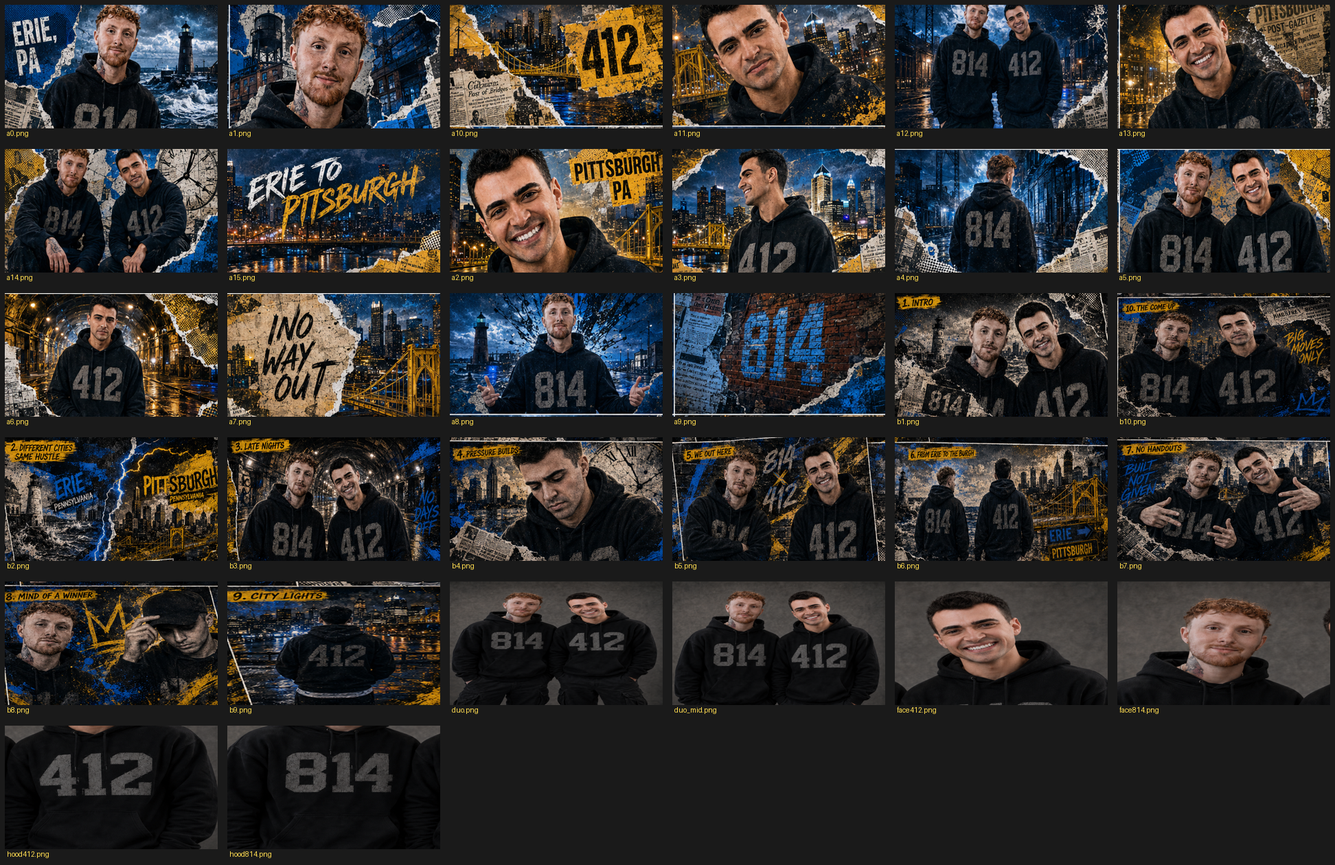
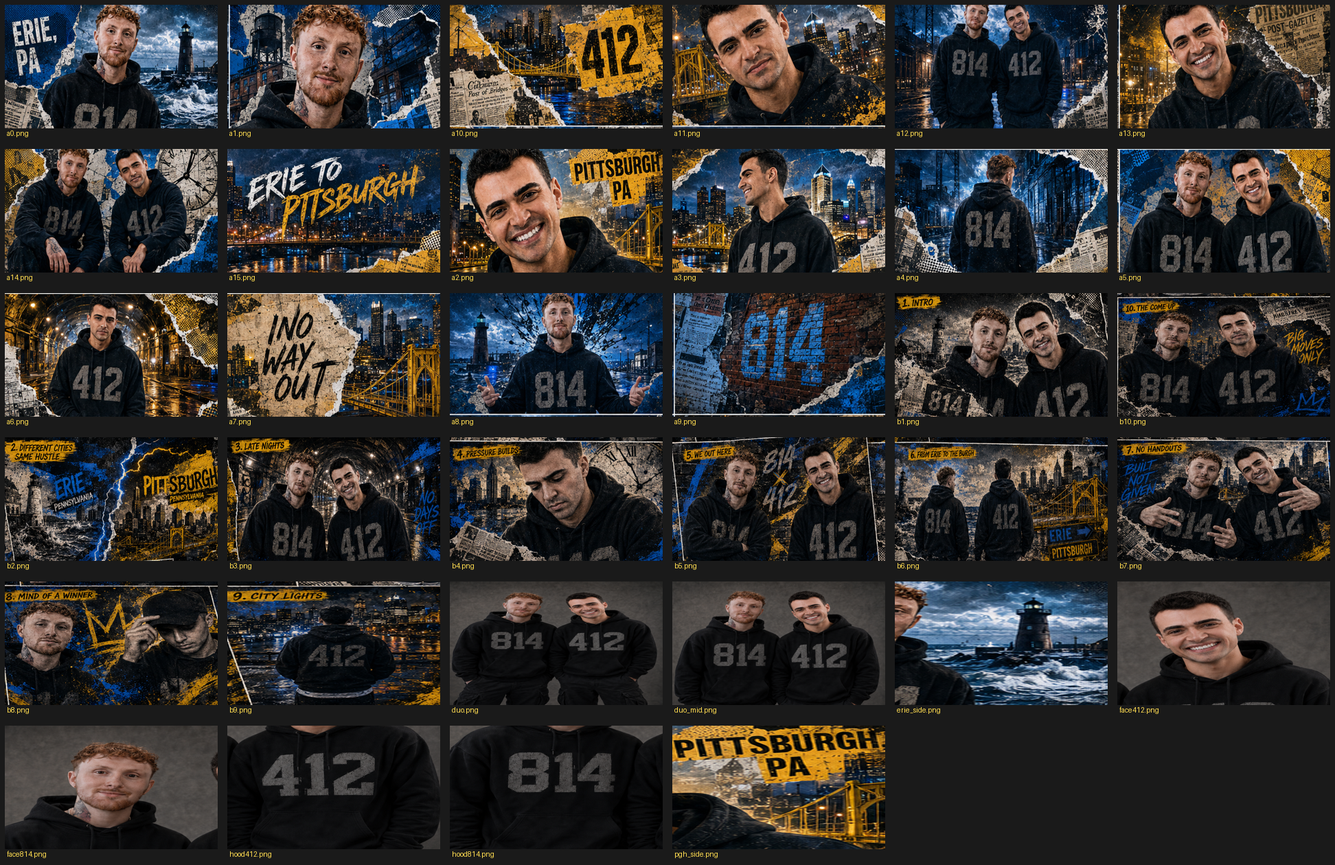
Keep faces off fragments and collide seam
Fragment crops re-centred on pure scenery (the bridge frag was clipping
a mouth, lighthouse/clock/skyline carried face slivers), collide scene
now splits the face-free 814 brick and 412 sign panels, and face-free
city side-plate crops are available from the slice stage.

Claude-Session: https://claude.ai/code/session_0178RnsEauKU8bD3FKeEBkzo

diff --git a/03_Content/814-Blood-2min/render.py b/03_Content/814-Blood-2min/render.py
@@ -104,6 +104,13 @@ def do_slice():
     for k, (x0, y0, x1, y1) in B_BOXES.items():
         im.crop((int(x0 * w) + 5, int(y0 * h) + 5, int(x1 * w) - 5, int(y1 * h) - 5)) \
           .save(os.path.join(PDIR, k + '.png'))
+    # face-free city side-plates for the collide sequence
+    im = Image.open(SHEET_A).convert('RGB')
+    w, h = im.size
+    im.crop((int(.57 * w / 4), 7, int(w / 4) - 7, int(h / 4) - 7)) \
+      .save(os.path.join(PDIR, 'erie_side.png'))       # a0 right: lighthouse + waves
+    im.crop((int((2 + .58) * w / 4), 7, int(3 * w / 4) - 7, int(h / 4) - 7)) \
+      .save(os.path.join(PDIR, 'pgh_side.png'))        # a2 right: PGH sign + bridge
     im = Image.open(PORTRAIT).convert('RGB')
     w, h = im.size
     for k, (x0, y0, x1, y1) in P_BOXES.items():
@@ -160,14 +167,14 @@ def do_audio():
 
 # ---------------------------------------------------------------- 3. prep
 
-FRAG_DEFS = [  # name, panel, rel cx, cy, rel w, h
-    ('lighthouse', 'a0',  .78, .42, .34, .58),
-    ('waves',      'a0',  .60, .82, .60, .34),
-    ('bridge',     'a2',  .55, .82, .62, .34),
-    ('skyline',    'a3',  .72, .30, .46, .50),
+FRAG_DEFS = [  # name, panel, rel cx, cy, rel w, h — scenery only, never faces
+    ('lighthouse', 'a0',  .84, .40, .26, .52),
+    ('waves',      'a0',  .80, .83, .38, .30),
+    ('bridge',     'a10', .32, .56, .40, .28),
+    ('skyline',    'a3',  .82, .28, .32, .46),
     ('news1',      'a10', .18, .74, .34, .44),
-    ('news2',      'a13', .84, .35, .30, .55),
-    ('clock',      'a14', .82, .22, .32, .42),
+    ('news2',      'a4',  .84, .80, .28, .34),
+    ('clock',      'a14', .87, .20, .22, .38),
     ('citylights', 'b9',  .50, .30, .70, .45),
 ]
 WORDS = [('814 BLOOD', 'white'), ('ERIE', 'blue'), ('PITTSBURGH', 'gold'),
@@ -394,7 +401,8 @@ class Engine:
         self.plates = {n[:-4]: np.load(os.path.join(ADIR, n))
                        for n in os.listdir(ADIR)
                        if n.endswith('.npy') and (n[0] in 'ab' and n[1].isdigit()
-                                                  or n.startswith(('face', 'hood', 'duo')))}
+                                                  or n.startswith(('face', 'hood', 'duo',
+                                                                   'erie_', 'pgh_')))}
         fz = np.load(os.path.join(ADIR, 'frags.npz'))
         self.frags = {}
         for k in fz.files:
@@ -607,8 +615,9 @@ class Engine:
         return out
 
     def compose_collide(self, sc, t, u, f, jx, jy):
-        left = self.plate_view(self.plates['a0'], 1.12 + 0.1 * u, -0.2 + 0.3 * u, 0, jx, jy)
-        right = self.plate_view(self.plates['a2'], 1.22 - 0.1 * u, 0.2 - 0.3 * u, 0, jx, jy)
+        # face-free full-res panels: 814 blue brick vs 412 gold sign colliding
+        left = self.plate_view(self.plates['a9'], 1.12 + 0.1 * u, -0.2 + 0.3 * u, 0, jx, jy)
+        right = self.plate_view(self.plates['a10'], 1.22 - 0.1 * u, 0.2 - 0.3 * u, 0, jx, jy)
         for pl, col in ((left, BLUE), (right, GOLD)):
             luma = pl.mean(axis=2, keepdims=True) / 255
             pl += (col / 255) * (luma ** 1.6) * 44
